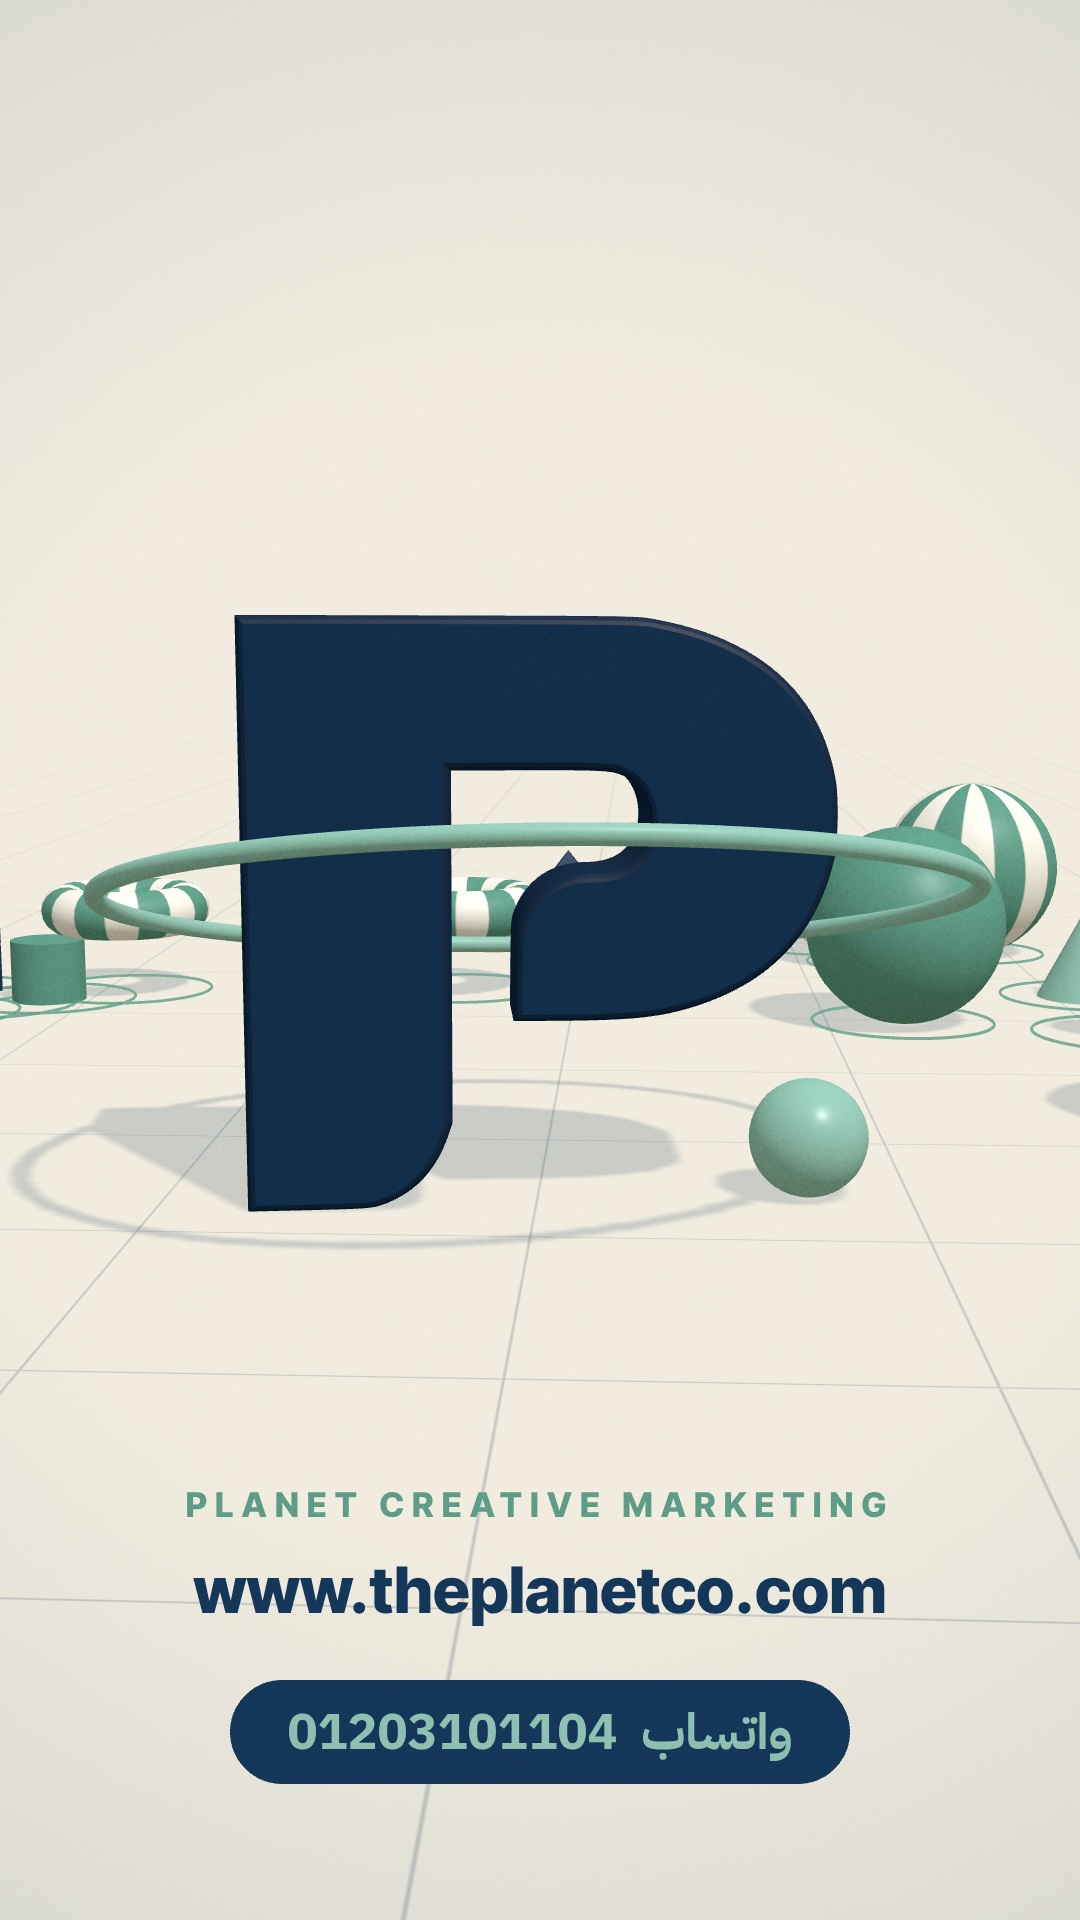
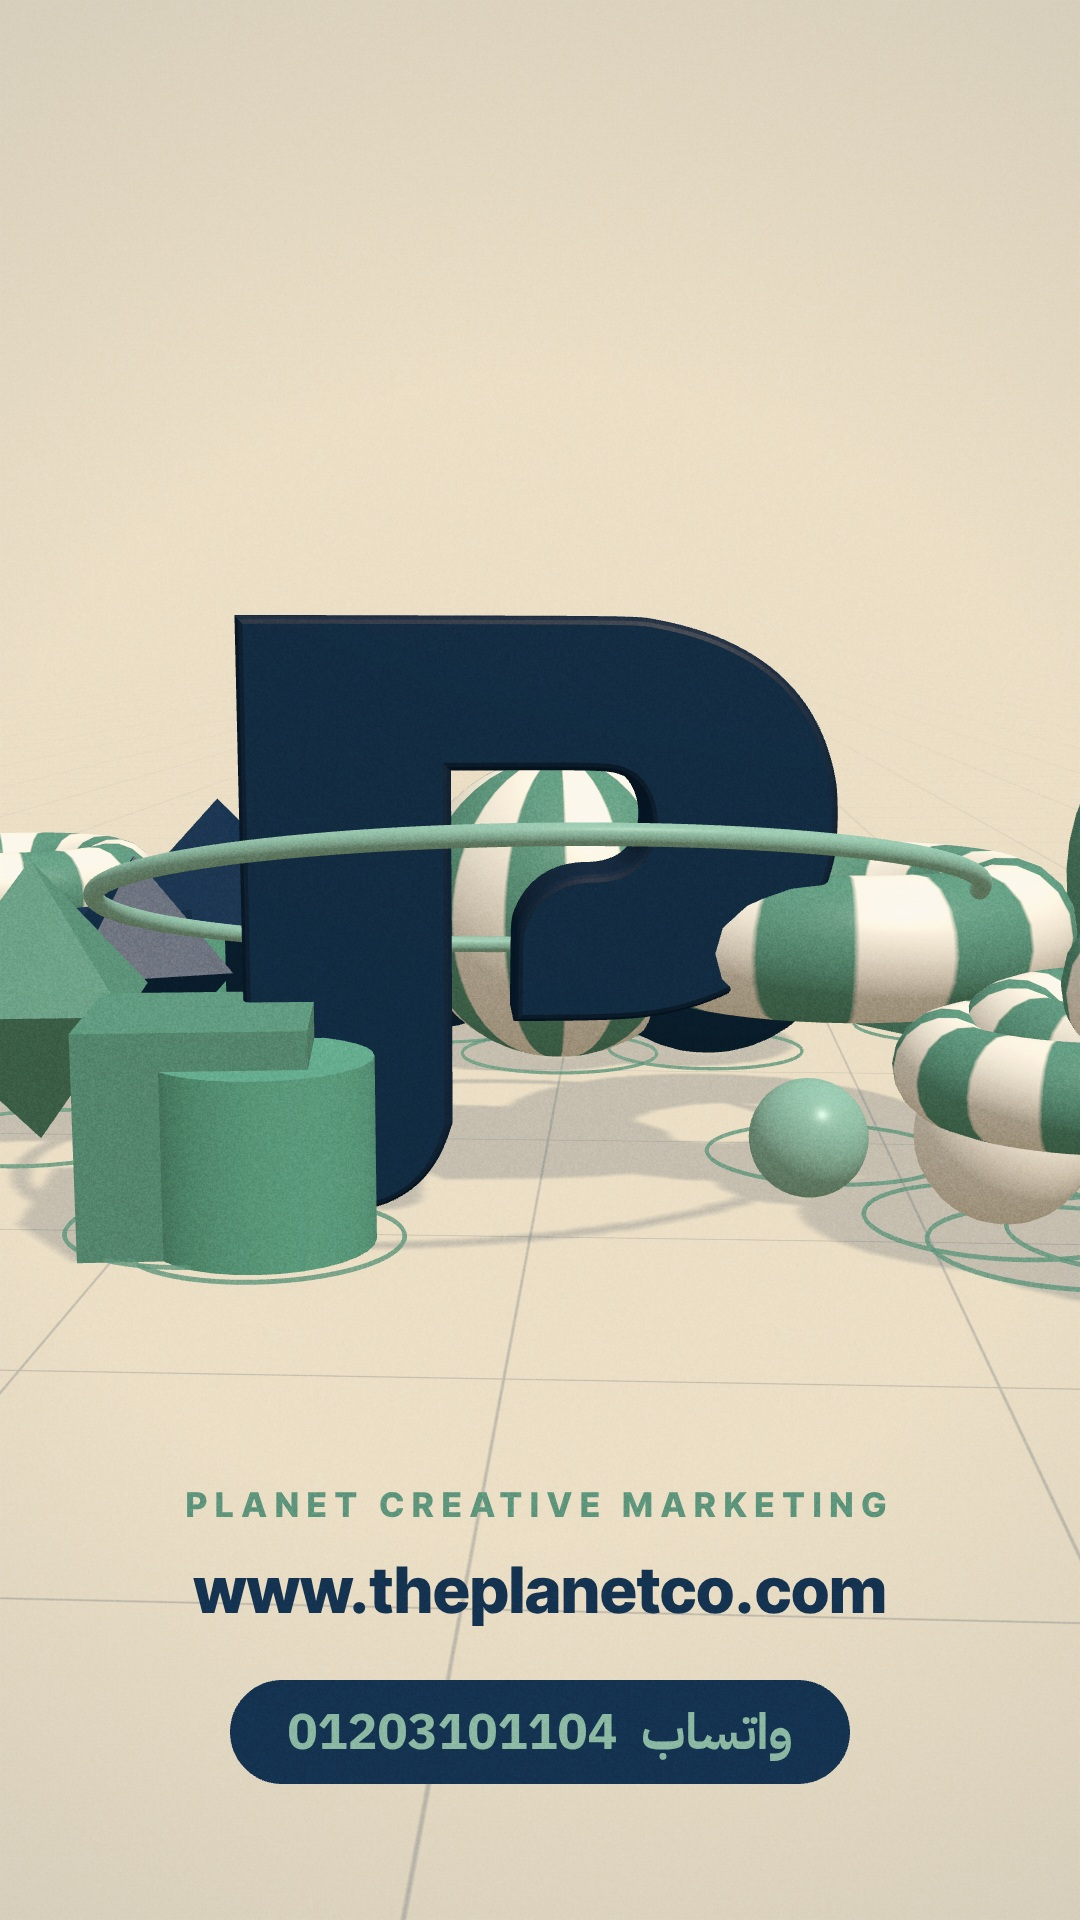
Reel 4 v2: one phrase per ring, closer pills, denser primitives, warm grade
Claude-Session: https://claude.ai/code/session_013j6J4WHgKzTiBALcFmfD98

diff --git a/planet-reel-4/scene.js b/planet-reel-4/scene.js
@@ -4,7 +4,7 @@ import { SVGLoader } from './assets/SVGLoader.js';
 const Q = new URLSearchParams(location.search);
 const W = +(Q.get('w') || 1080), H = +(Q.get('h') || 1920);
 const S = W / 1080; // 2D overlay scale
-const C = { cream: '#F1ECDF', paper: '#F7F3E9', navy: '#143659', navy2: '#24497A', mint: '#92C5B4', mintD: '#5E9C88', mintL: '#C9E3DA' };
+const C = { mintS: '#62AE95', cream: '#EEE6D4', paper: '#F7F3E9', navy: '#143659', navy2: '#24497A', mint: '#92C5B4', mintD: '#5E9C88', mintL: '#C9E3DA' };
 const col = (h) => new THREE.Color(h);
 
 // ---------- math ----------
@@ -287,15 +287,18 @@ shot(4.75, 8.3, (g) => {
 shot(8.3, 16.65, (g) => {
   g.add(floor(C.mintD, 2, 300, 0.4, 4)); g.position.y = 0;
   function bandCanvas(text, o = {}) {
-    const Wc = 4096, Hc = o.hc || 256; const c = cv(Wc, Hc), x = c.getContext('2d');
+    const Wc = 4096, Hc = o.hc || 320; const c = cv(Wc, Hc), x = c.getContext('2d');
     x.fillStyle = o.bg || C.paper; x.fillRect(0, 0, Wc, Hc);
     x.fillStyle = o.edge || C.mintD; x.fillRect(0, 0, Wc, 6); x.fillRect(0, Hc - 6, Wc, 6);
     if (o.chev) { x.strokeStyle = o.edge || C.mintD; x.lineWidth = 7; for (let i = 0; i < 70; i++) { const cx = i * 58 + 20; x.beginPath(); x.moveTo(cx, Hc * 0.3); x.lineTo(cx + 18, Hc * 0.5); x.lineTo(cx, Hc * 0.7); x.stroke(); } }
     if (o.ticks) { x.fillStyle = o.edge || C.mintD; for (let i = 0; i < 320; i++) { const L = i % 10 === 0 ? Hc * 0.35 : Hc * 0.15; x.fillRect(i * 12.8, 6, 3, L); } }
-    if (o.mono) { x.font = `500 ${Hc * 0.28}px Mono`; x.fillStyle = o.edge || C.mintD; for (let k = 0; k < 6; k++) x.fillText(o.mono, 80 + k * 700, Hc * 0.82); }
+    if (o.mono) { x.font = `500 ${Hc * 0.28}px Mono`; x.fillStyle = o.edge || C.mintD; for (let k = 0; k < 4; k++) x.fillText(o.mono, 80 + k * 1024, Hc * 0.82); }
     if (text) {
       x.font = `${o.weight || 700} ${o.size || Hc * 0.62}px ${o.family || 'Kufi'}`; x.direction = 'rtl'; x.textAlign = 'center'; x.textBaseline = 'middle';
       const reps = o.reps || 2;
+      if (o.arc) { x.font = `${o.weight || 700} ${o.size || Hc * 0.66}px ${o.family || 'Kufi'}`; const mw = x.measureText(text).width, lim = Wc * o.arc; if (mw > lim) x.font = `${o.weight || 700} ${Math.floor((o.size || Hc * 0.66) * lim / mw)}px ${o.family || 'Kufi'}`;
+        [0, Wc].forEach((cx) => { if (o.shadow) { x.fillStyle = o.shadow; x.fillText(text, cx + 10, Hc * 0.52 + 10); } x.fillStyle = o.color || C.navy; x.fillText(text, cx, Hc * 0.52); });
+        const t = tex(c); return t; }
       { const slot = Wc / reps * 0.74; const mw = x.measureText(text).width; if (mw > slot) x.font = `${o.weight || 700} ${Math.floor((o.size || Hc * 0.62) * slot / mw)}px ${o.family || 'Kufi'}`; }
       for (let k = 0; k < reps; k++) { const cx = (k + 0.5) * Wc / reps; if (o.shadow) { x.fillStyle = o.shadow; x.fillText(text, cx + 8, Hc * 0.52 + 8); } x.fillStyle = o.color || C.navy; x.fillText(text, cx, Hc * 0.52); }
     }
@@ -312,17 +315,17 @@ shot(8.3, 16.65, (g) => {
   const spec = [
     { y: -1.6, R: 2.5, h: 0.5, o: { ticks: 1, mono: 'MARKETING · 01' } },
     { y: -0.9, R: 2.6, h: 0.5, o: { chev: 1 } },
-    { y: 0.0, R: 2.5, h: 0.8, text: 'محتاج وكالة', o: { reps: 5, shadow: C.mint }, t: 8.75, key: 1 },
-    { y: 0.95, R: 2.55, h: 0.7, text: 'تكبّر براندك', o: { reps: 5, shadow: C.mint }, t: 9.6, key: 1 },
+    { y: 0.0, R: 2.5, h: 0.85, text: 'محتاج وكالة', o: { arc: 0.2, shadow: C.mintS }, t: 8.75, key: 1 },
+    { y: 0.95, R: 2.55, h: 0.75, text: 'تكبّر براندك', o: { arc: 0.2, shadow: C.mintS }, t: 9.6, key: 1 },
     { y: 1.8, R: 2.45, h: 0.45, o: { ticks: 1, mono: 'BRANDING · 02' } },
-    { y: 2.55, R: 2.6, h: 0.8, text: 'تسويق · براندينج · تطبيقات', o: { reps: 4, bg: C.navy, color: C.paper, family: 'Plex', weight: 300, edge: C.mint }, back: C.navy, t: 10.8, key: 1 },
-    { y: 3.4, R: 2.5, h: 0.6, o: { bg: C.mint, edge: C.navy, chev: 1 }, back: C.mint },
+    { y: 2.55, R: 2.6, h: 0.85, text: 'تسويق · براندينج · تطبيقات', o: { arc: 0.36, bg: C.navy, color: C.paper, family: 'Plex', weight: 300, edge: C.mint }, back: C.navy, t: 10.8, key: 1 },
+    { y: 3.4, R: 2.5, h: 0.6, o: { bg: C.mintS, edge: C.navy, chev: 1 }, back: C.mintS },
     { y: 4.15, R: 2.45, h: 0.45, o: { chev: 1 } },
-    { y: 4.9, R: 2.55, h: 0.75, text: 'إدارة منصاتك', o: { reps: 5, shadow: C.mint }, t: 13.3, key: 1 },
+    { y: 4.9, R: 2.55, h: 0.8, text: 'إدارة منصاتك', o: { arc: 0.2, shadow: C.mintS }, t: 13.3, key: 1 },
     { y: 5.75, R: 2.5, h: 0.45, o: { ticks: 1, mono: 'SOCIAL · APPS' } },
-    { y: 6.55, R: 2.6, h: 0.85, text: 'بنعرف', o: { reps: 6, family: 'Kufi', weight: 900, color: C.navy, shadow: C.mint }, t: 14.45, key: 1 },
-    { y: 7.45, R: 2.5, h: 0.7, text: 'نحوّل المتابعين', o: { reps: 5, chev: 0, family: 'Plex', weight: 700, color: C.navy }, t: 15.0, key: 1 },
-    { y: 8.3, R: 2.55, h: 0.75, text: 'لعملاء', o: { reps: 6, chev: 1, color: C.navy, shadow: C.mint }, t: 15.55, key: 1 },
+    { y: 6.55, R: 2.6, h: 0.9, text: 'بنعرف', o: { arc: 0.14, family: 'Kufi', weight: 900, color: C.navy, shadow: C.mintS }, t: 14.45, key: 1 },
+    { y: 7.45, R: 2.5, h: 0.75, text: 'نحوّل المتابعين', o: { arc: 0.22, family: 'Plex', weight: 700, color: C.navy }, t: 15.0, key: 1 },
+    { y: 8.3, R: 2.55, h: 0.8, text: 'لعملاء', o: { arc: 0.15, chev: 1, color: C.navy, shadow: C.mintS }, t: 15.55, key: 1 },
     { y: 9.1, R: 2.45, h: 0.45, o: { ticks: 1, mono: 'THEPLANETCO.COM' } },
   ];
   const rings = spec.map((s, i) => { const m = ringMesh(s.R, s.h, bandCanvas(s.text, s.o), s.back); m.position.y = s.y; m.userData = s; g.add(m); return m; });
@@ -335,10 +338,10 @@ shot(8.3, 16.65, (g) => {
       scene.fog = new THREE.Fog(C.cream, 6, 30);
       // camera keys: [time, camY, lookY, radius, angle]
       const K = [
-        [8.3, -0.6, -0.4, 12.38, 0.3], [8.75, 0.15, 0.0, 8.52, 0.05], [9.5, 0.35, 0.2, 9.05, -0.05], [9.6, 1.05, 0.95, 8.52, 0.0], [10.6, 1.4, 1.1, 9.4, -0.1],
-        [10.8, 2.6, 2.55, 6.6, 0.1], [11.6, 2.55, 2.55, 5.9, -0.12], [12.45, 2.7, 2.6, 5.55, -0.3],
-        [13.0, 6.5, 3.5, 17.62, 0.4], [13.3, 4.95, 4.9, 8.7, 0.1], [14.35, 5.1, 4.9, 9.58, -0.1],
-        [14.45, 6.6, 6.55, 8.35, 0.05], [15.0, 7.4, 7.2, 8.7, -0.05], [15.55, 8.3, 8.1, 8.52, 0.05], [16.65, 9.0, 8.4, 10.1, -0.15],
+        [8.3, -1.4, -0.5, 13.0, 0.5], [8.75, 0.15, 0.0, 8.8, 0.05], [9.5, 0.3, 0.1, 9.2, -0.1], [9.6, 1.0, 0.95, 8.8, 0.05], [10.6, 1.3, 1.0, 9.4, -0.1],
+        [10.8, 2.6, 2.55, 8.2, 0.1], [11.6, 2.55, 2.55, 7.8, -0.1], [12.45, 2.9, 2.7, 7.6, -0.35],
+        [13.0, 6.5, 3.5, 12.0, 0.4], [13.3, 4.95, 4.9, 8.8, 0.1], [14.35, 5.1, 4.9, 9.4, -0.1],
+        [14.45, 6.6, 6.55, 8.6, 0.05], [15.0, 7.45, 7.3, 8.9, -0.05], [15.55, 8.3, 8.15, 8.7, 0.05], [16.65, 9.0, 8.4, 10.0, -0.15],
       ];
       let i = 0; while (i < K.length - 2 && t > K[i + 1][0]) i++;
       const [ta, ya, la, ra, aa] = K[i], [tb, yb, lb, rb, ab] = K[i + 1];
@@ -347,7 +350,7 @@ shot(8.3, 16.65, (g) => {
       setCam([Math.sin(ang) * rad, y, Math.cos(ang) * rad], [0, ly, 0], Math.sin(t * 1.3) * 0.08 + (t > 10.8 && t < 12.5 ? -0.1 : 0));
       rings.forEach((m) => {
         const s = m.userData;
-        if (s.key) { const kk = eoExpo(seg(t, s.t - 0.05, s.t + 0.45)); m.rotation.y = lerp(-2.4, 0, kk) - 0.0 + (t - s.t) * 0.05; }
+        if (s.key) { const kk = eoExpo(seg(t, s.t - 0.08, s.t + 0.5)); m.rotation.y = lerp(-3.1, 0, kk) + Math.max(0, t - s.t) * 0.06; }
         else m.rotation.y = t * (s.y % 2 > 1 ? 0.25 : -0.2);
       });
     },
@@ -442,18 +445,18 @@ shot(20.3, 22.05, (g) => {
   g.add(floor(C.navy, 2.5, 300, 0.25));
   const words = ['متابع جديد', 'عميل جديد', 'رسالة واتساب', 'طلب جديد', 'تعليق جديد', 'مشاركة', 'عميل جديد', 'طلب جديد'];
   const sty = [
-    { bg: C.navy, color: C.mint }, { bg: C.mint, color: C.navy }, { bg: C.paper, color: C.navy, bgStroke: C.navy }, { bg: C.navy, color: C.paper },
+    { bg: C.navy, color: C.mint }, { bg: C.mintS, color: C.navy }, { bg: C.paper, color: C.navy, bgStroke: C.navy }, { bg: C.navy, color: C.paper },
   ];
   const r = rng(99); const pills = [];
   const cache = {};
   for (let i = 0; i < 70; i++) {
     const w = words[i % words.length], s = sty[(i * 7) % 4]; const key = w + i % 4;
     if (!cache[key]) { const c = textCanvas(w, { family: 'Plex', weight: 700, size: 110, color: s.color, bg: s.bg, bgStroke: s.bgStroke, bgStrokeW: 10, pad: 48, bgInset: 6 }); const sc = textCanvas(w, { family: 'Plex', weight: 700, size: 110, color: '#0B2440', bg: '#0B2440', pad: 48, bgInset: 6 }); cache[key] = { c, ft: tex(c), sc, st: tex(sc) }; }
-    const cc = cache[key]; const grp = new THREE.Group(); const wdt = 1.4 + r() * 1.4;
-    for (let j = 4; j >= 1; j--) { const p = planeOf(cc.sc, wdt, { map: cc.st, alphaTest: 0.5 }); p.position.z = -j * 0.03; grp.add(p); }
+    const cc = cache[key]; const grp = new THREE.Group(); const wdt = 2.0 + r() * 2.0;
+    for (let j = 8; j >= 1; j--) { const p = planeOf(cc.sc, wdt, { map: cc.st, alphaTest: 0.5 }); p.position.z = -j * 0.035; grp.add(p); }
     grp.add(planeOf(cc.c, wdt, { map: cc.ft }));
-    const ang = r() * Math.PI * 2, rad = 0.8 + r() * 4.5;
-    grp.userData = { x: Math.cos(ang) * rad, y: 3 + Math.sin(ang) * rad * 0.9, z: -r() * 34 + 3, rx: (r() - 0.5) * 1.2, ry: (r() - 0.5) * 1.4, rz: (r() - 0.5) * 1.6, sp: (r() - 0.5) * 2, t: 20.3 + r() * 0.6 };
+    const ang = r() * Math.PI * 2, rad = 1.3 + r() * 2.6;
+    grp.userData = { x: Math.cos(ang) * rad, y: 3 + Math.sin(ang) * rad * 0.9, z: -r() * 30 + 6, rx: (r() - 0.5) * 1.2, ry: (r() - 0.5) * 1.4, rz: (r() - 0.5) * 1.6, sp: (r() - 0.5) * 2, t: 20.3 + r() * 0.6 };
     g.add(grp); pills.push(grp);
   }
   // typing bubble
@@ -462,7 +465,7 @@ shot(20.3, 22.05, (g) => {
   const bub = planeOf(bc, 3.0); g.add(bub);
   return {
     update(t) {
-      scene.fog = new THREE.Fog(C.cream, 8, 36);
+      scene.fog = new THREE.Fog(C.cream, 16, 44);
       const lt = t - 20.3;
       const cz = lerp(14, -20, eio(seg(lt, 0, 1.75)) * 0.7 + seg(lt, 0, 1.75) * 0.3);
       pills.forEach((p) => { const u = p.userData; const k = eo(seg(t, u.t, u.t + 0.4)); p.position.set(u.x * lerp(0.2, 1, k), u.y, u.z); p.rotation.set(u.rx + lt * u.sp * 0.4, u.ry + lt * u.sp * 0.3, u.rz + lt * u.sp * 0.5); p.scale.setScalar(Math.max(0.001, k)); });
@@ -535,20 +538,20 @@ shot(25.05, 30.01, (g) => {
   const r = rng(2026); const objs = [];
   const stripeTex = (a, b) => { const c = cv(256, 64), x = c.getContext('2d'); for (let i = 0; i < 16; i++) { x.fillStyle = i % 2 ? a : b; x.fillRect(i * 16, 0, 16, 64); } const t = tex(c); t.wrapS = t.wrapT = THREE.RepeatWrapping; return t; };
   const mats = [
-    new THREE.MeshStandardMaterial({ color: C.mint, roughness: 0.45 }), new THREE.MeshStandardMaterial({ color: C.navy, roughness: 0.5 }),
+    new THREE.MeshStandardMaterial({ color: C.mintS, roughness: 0.4 }), new THREE.MeshStandardMaterial({ color: C.navy, roughness: 0.45 }),
     new THREE.MeshStandardMaterial({ color: C.paper, roughness: 0.6 }), new THREE.MeshStandardMaterial({ map: stripeTex(C.navy, C.mint), roughness: 0.5 }),
     new THREE.MeshStandardMaterial({ map: stripeTex(C.paper, C.mintD), roughness: 0.5 }), new THREE.MeshStandardMaterial({ color: C.mintD, roughness: 0.45 }),
   ];
   const star = (() => { const s = new THREE.Shape(); for (let j = 0; j < 10; j++) { const a = j * Math.PI / 5 + Math.PI / 2, rr2 = j % 2 ? 0.22 : 0.5; j ? s.lineTo(Math.cos(a) * rr2, Math.sin(a) * rr2) : s.moveTo(Math.cos(a) * rr2, Math.sin(a) * rr2); } return new THREE.ExtrudeGeometry(s, { depth: 0.18, bevelEnabled: false }); })();
   const geos = [() => new THREE.SphereGeometry(0.5 + r() * 0.4, 32, 24), () => new THREE.TorusGeometry(0.5, 0.2, 18, 48), () => new THREE.BoxGeometry(0.6, 0.6, 0.6), () => new THREE.ConeGeometry(0.4, 0.8, 32), () => new THREE.CylinderGeometry(0.3, 0.3, 0.5, 32), () => star, () => new THREE.OctahedronGeometry(0.45), () => new THREE.SphereGeometry(0.25, 24, 16)];
-  for (let i = 0; i < 64; i++) {
+  for (let i = 0; i < 120; i++) {
     const gi = i % geos.length; const geo = geos[gi]();
     const m = new THREE.Mesh(geo, gi === 1 ? mats[3 + (i % 2)] : gi === 0 && i % 3 === 0 ? mats[4] : mats[i % 3 === 0 ? 0 : i % 3 === 1 ? 1 : (i % 2 ? 2 : 5)]);
-    m.castShadow = true;
-    const ang = r() * Math.PI * 2, d = 3.0 + Math.sqrt(r()) * 6; if (Math.sin(ang) * d > 2.2 && Math.abs(Math.cos(ang) * d) < 3.5) { /* keep clear of end-card text */ }
+    m.scale.setScalar(1.1 + r() * 0.9); m.castShadow = true;
+    const ang = r() * Math.PI * 2, d = 1.6 + Math.sqrt(r()) * 5.2; if (Math.sin(ang) * d > 2.2 && Math.abs(Math.cos(ang) * d) < 3.5) { /* keep clear of end-card text */ }
     const bb = new THREE.Box3().setFromObject(m); const hy = -bb.min.y;
     let ox = Math.cos(ang) * d, oz = Math.sin(ang) * d; if (oz > 2.2 && Math.abs(ox) < 3.8) { ox = Math.sign(ox || 1) * (3.8 + r() * 2); }
-    m.userData = { x: ox, z: oz, y0: 5 + r() * 11, t0: 24.55 + r() * 2.9, hy, rx: r() * 6, ry: r() * 6, sp: 2 + r() * 4, rest: gi === 1 ? [Math.PI / 2, 0, 0] : [0, r() * 6, 0] };
+    m.userData = { x: ox, z: oz, y0: 3 + r() * 8, t0: 24.1 + r() * 1.7, hy, rx: r() * 6, ry: r() * 6, sp: 2 + r() * 4, rest: gi === 1 ? [Math.PI / 2, 0, 0] : [0, r() * 6, 0] };
     g.add(m); objs.push(m);
     const sr = torusRing(0.7, 0.012, C.mintD, 0.8); sr.rotation.x = Math.PI / 2; sr.position.set(m.userData.x, 0.01, m.userData.z); m.userData.ring = sr; g.add(sr);
   }
@@ -573,7 +576,7 @@ shot(25.05, 30.01, (g) => {
       logoG.rotation.y = lerp(-0.6, 0.15, eo(seg(t, 27.75, 28.6))) + Math.sin(t) * 0.05;
       const sq = lk > 0.33 && lk < 0.55 ? Math.sin((lk - 0.33) / 0.22 * Math.PI) * 0.15 : 0; logoG.scale.set(1 + sq, 1 - sq, 1 + sq);
       let p, look;
-      if (t < 27.7) { const k = seg(t, 25.05, 27.7); const ang = lerp(0.2, 0.9, k); p = [Math.sin(ang) * lerp(8.5, 10, k), lerp(3.0, 4.4, k), Math.cos(ang) * lerp(8.5, 10, k)]; look = [0, lerp(2.4, 1.0, eo(k)), 0]; }
+      if (t < 27.7) { const k = seg(t, 25.05, 27.7); const ang = lerp(0.2, 0.9, k); p = [Math.sin(ang) * lerp(8.0, 9.5, k), lerp(4.2, 5.2, k), Math.cos(ang) * lerp(8.0, 9.5, k)]; look = [0, lerp(1.4, 0.6, eo(k)), 0]; }
       else { const k = seg(t, 27.7, 30); const ang = lerp(-0.25, 0.05, eo(k)); const rad = lerp(12.5, 11.0, eo(k)); p = [Math.sin(ang) * rad, lerp(3.6, 3.0, eo(k)), Math.cos(ang) * rad + 1]; look = [0, lerp(1.6, 1.25, eo(k)), 1]; }
       setCam(p, look, t < 27.7 ? lerp(-0.12, 0.05, seg(t, 25.05, 27.7)) : 0);
       sun.castShadow = true;
@@ -615,8 +618,9 @@ async function buildLogo() {
 // ---------- grain / vignette ----------
 const grains = [0, 1, 2, 3].map((i) => { const c = cv(512, 512), x = c.getContext('2d'); const id = x.createImageData(512, 512); const r = rng(500 + i); for (let j = 0; j < id.data.length; j += 4) { const v = r() * 255; id.data[j] = id.data[j + 1] = id.data[j + 2] = v; id.data[j + 3] = 255; } x.putImageData(id, 0, 0); return c; });
 function post(t) {
+  octx.save(); octx.globalCompositeOperation = 'multiply'; octx.fillStyle = 'rgba(246,228,200,0.28)'; octx.fillRect(0, 0, W, H); octx.globalCompositeOperation = 'soft-light'; octx.fillStyle = 'rgba(120,80,40,0.10)'; octx.fillRect(0, 0, W, H); octx.restore();
   const fi = Math.floor(t * 30) % 4;
-  octx.save(); octx.globalCompositeOperation = 'overlay'; octx.globalAlpha = 0.07; const pat = octx.createPattern(grains[fi], 'repeat'); octx.fillStyle = pat; octx.fillRect(0, 0, W, H); octx.restore();
+  octx.save(); octx.globalCompositeOperation = 'overlay'; octx.globalAlpha = 0.11; const pat = octx.createPattern(grains[fi], 'repeat'); octx.fillStyle = pat; octx.fillRect(0, 0, W, H); octx.restore();
   const g = octx.createRadialGradient(W / 2, H / 2, H * 0.3, W / 2, H / 2, H * 0.75); g.addColorStop(0, 'rgba(20,54,89,0)'); g.addColorStop(1, 'rgba(20,54,89,0.16)'); octx.fillStyle = g; octx.fillRect(0, 0, W, H);
 }
 
